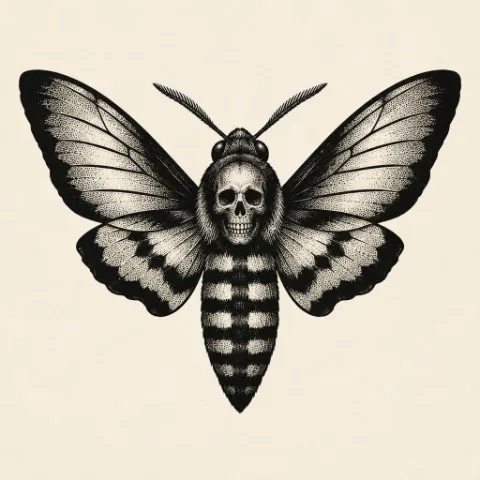
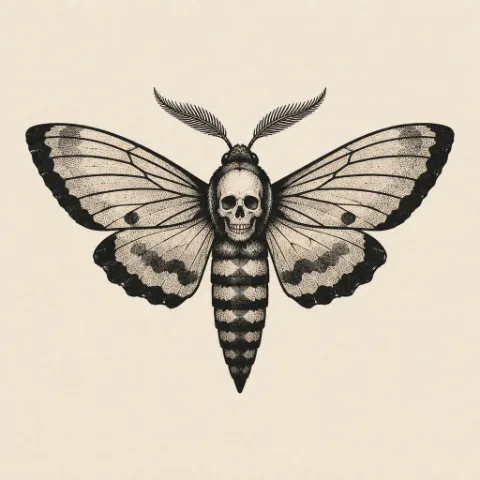
Landing: el proceso muestra la polilla de la biblioteca de Marc como elegida y en la piel (en vertical); texto: imágenes de varias tandas

Changed region(s): [[0.0312, 0.125, 0.9688, 0.875]]

diff --git a/es/index.html b/es/index.html
@@ -313,14 +313,14 @@ footer .brand img { width: 3rem; height: 3rem; }
 </div></section>
 
 <section><div class="wrap">
-  <div class="head"><p class="label">Cómo funciona</p><h2>Cinco pasos. Tú decides en cada uno.</h2><p class="real">Un encargo real, hecho con Inkdraft de punta a punta. Las imágenes salen de la app, sin retocar.</p></div>
+  <div class="head"><p class="label">Cómo funciona</p><h2>Cinco pasos. Tú decides en cada uno.</h2><p class="real">Un encargo real hecho con Inkdraft. Imágenes de la app sin retocar, elegidas de varias tandas.</p></div>
   <ol class="steps2">
     <li><span class="n">1</span><div class="st"><span class="label">Paso 1 · Encargo</span><h3>Cuéntale el encargo</h3><p>Escríbelo como te lo dice el cliente: tema, zona y tamaño. Si trae fotos de referencia, súbelas: Inkdraft las lee como gusto, nunca las copia.</p></div>
       <div class="plate"><div class="ticket"><p class="q">“polilla con calavera”</p><dl><dt>Zona</dt><dd>Antebrazo</dd><dt>Tamaño</dt><dd>15 cm</dd><dt>Estilo</dt><dd>Blackwork</dd></dl></div><small>Tal cual lo escribió el tatuador.</small></div></li>
     <li><span class="n">2</span><div class="st"><span class="label">Paso 2 · Conceptos</span><h3>Elige viendo</h3><p>Cuatro conceptos distintos, cada uno con su dibujo. Eliges con los ojos, no leyendo descripciones. ¿Ninguno te convence? Pide otra tanda.</p></div>
-      <div class="plate"><div class="g g4"><figure class="pick"><div class="pp"><img src="/img/pol-concepto-1.webp" alt="Esfinge de la calavera de frente, con la calavera en el tórax y las alas con borde negro" width="480" height="480" loading="lazy"></div><figcaption>Esfinge de la calavera</figcaption></figure><figure><div class="pp"><img src="/img/pol-concepto-2.webp" alt="La esfinge posada sobre una vela encendida que gotea" width="480" height="480" loading="lazy"></div><figcaption>Polilla y vela</figcaption></figure><figure><div class="pp"><img src="/img/pol-concepto-3.webp" alt="La esfinge sobre un eclipse negro con corona de rayos" width="480" height="480" loading="lazy"></div><figcaption>Polilla de luna eclipse</figcaption></figure><figure><div class="pp"><img src="/img/pol-concepto-4.webp" alt="La esfinge con las alas hechas de cristales de cuarzo" width="480" height="480" loading="lazy"></div><figcaption>Alas de cristal</figcaption></figure></div></div></li>
+      <div class="plate"><div class="g g4"><figure class="pick"><div class="pp"><img src="/img/pol-concepto-1.webp" alt="Polilla de alas abiertas vista desde arriba, con una calavera en el tórax" width="480" height="480" loading="lazy"></div><figcaption>Polilla con calavera</figcaption></figure><figure><div class="pp"><img src="/img/pol-concepto-2.webp" alt="La esfinge posada sobre una vela encendida que gotea" width="480" height="480" loading="lazy"></div><figcaption>Polilla y vela</figcaption></figure><figure><div class="pp"><img src="/img/pol-concepto-3.webp" alt="La esfinge sobre un eclipse negro con corona de rayos" width="480" height="480" loading="lazy"></div><figcaption>Polilla de luna eclipse</figcaption></figure><figure><div class="pp"><img src="/img/pol-concepto-4.webp" alt="La esfinge con las alas hechas de cristales de cuarzo" width="480" height="480" loading="lazy"></div><figcaption>Alas de cristal</figcaption></figure></div></div></li>
     <li><span class="n">3</span><div class="st"><span class="label">Paso 3 · Variaciones</span><h3>Afínalo</h3><p>Tres variaciones del elegido: cercana, media y atrevida. Para corregir un detalle o probar otro ángulo.</p></div>
-      <div class="plate"><div class="g g3"><figure><div class="pp"><img src="/img/pol-var-cercana.webp" alt="Variación cercana: la esfinge girada, con un ala más abierta" width="480" height="480" loading="lazy"></div><figcaption>Cercana</figcaption></figure><figure><div class="pp"><img src="/img/pol-var-media.webp" alt="Variación media: la esfinge en diagonal, con el abdomen curvado" width="480" height="480" loading="lazy"></div><figcaption>Media</figcaption></figure><figure><div class="pp"><img src="/img/pol-var-atrevida.webp" alt="Variación atrevida: la esfinge de perfil, en diagonal" width="480" height="480" loading="lazy"></div><figcaption>Atrevida</figcaption></figure></div></div></li>
+      <div class="plate"><div class="g g3"><figure><div class="pp"><img src="/img/pol-var-cercana.webp" alt="Variación cercana: la polilla algo girada, con las alas en diagonal" width="480" height="480" loading="lazy"></div><figcaption>Cercana</figcaption></figure><figure><div class="pp"><img src="/img/pol-var-media.webp" alt="Variación media: la polilla en diagonal, con alas largas y estrechas" width="480" height="480" loading="lazy"></div><figcaption>Media</figcaption></figure><figure><div class="pp"><img src="/img/pol-var-atrevida.webp" alt="Variación atrevida: la polilla en vertical, con el abdomen curvado en S" width="480" height="480" loading="lazy"></div><figcaption>Atrevida</figcaption></figure></div></div></li>
     <li><span class="n">4</span><div class="st"><span class="label">Paso 4 · Stencil</span><h3>Llévate el stencil</h3><p>Línea limpia de un solo grosor, fiel al dibujo, a 2048 px. Ábrelo en Procreate y pon el sombreado a tu manera.</p></div>
       <div class="plate"><div class="g g2"><figure><div class="pp"><img src="/img/pol-diseno.webp" alt="El diseño elegido, sombreado" width="800" height="800" loading="lazy"></div><figcaption>Diseño</figcaption></figure><figure><div class="pp"><img src="/img/pol-stencil.webp" alt="Stencil de la polilla calavera: solo contornos, un grosor" width="800" height="800" loading="lazy"></div><figcaption>Stencil</figcaption></figure></div></div></li>
     <li><span class="n">5</span><div class="st"><span class="label">Paso 5 · En la piel</span><h3>Enséñaselo al cliente</h3><p>Sube una foto de la zona, coloca el diseño con los dedos e Inkdraft lo vuelve realista. El cliente lo ve antes de la cita.</p></div>

diff --git a/index.html b/index.html
@@ -318,14 +318,14 @@ footer .brand img { width: 3rem; height: 3rem; }
 </div></section>
 
 <section><div class="wrap">
-  <div class="head"><p class="label">How it works</p><h2>Five steps. You decide at every one.</h2><p class="real">A real brief, made with Inkdraft from start to finish. Every image comes straight out of the app, untouched.</p></div>
+  <div class="head"><p class="label">How it works</p><h2>Five steps. You decide at every one.</h2><p class="real">A real brief made with Inkdraft. Untouched images from the app, picked from several batches.</p></div>
   <ol class="steps2">
     <li><span class="n">1</span><div class="st"><span class="label">Step 1 · Brief</span><h3>Describe the request</h3><p>Write it the way your client said it: subject, placement and size. If they sent reference photos, add them: Inkdraft reads them as taste and never copies them.</p></div>
       <div class="plate"><div class="ticket"><p class="q">“moth with skull”</p><dl><dt>Placement</dt><dd>Forearm</dd><dt>Size</dt><dd>15 cm</dd><dt>Style</dt><dd>Blackwork</dd></dl></div><small>Typed in a hurry, just like a real brief.</small></div></li>
     <li><span class="n">2</span><div class="st"><span class="label">Step 2 · Concepts</span><h3>Pick by eye</h3><p>Four different concepts, each one drawn. You choose by looking, not by reading descriptions. None of them right? Ask for another round.</p></div>
-      <div class="plate"><div class="g g4"><figure class="pick"><div class="pp"><img src="/img/pol-concepto-1.webp" alt="Death's-head hawkmoth seen from the front, a skull on its thorax and black-edged wings" width="480" height="480" loading="lazy"></div><figcaption>Death's-head hawkmoth</figcaption></figure><figure><div class="pp"><img src="/img/pol-concepto-2.webp" alt="The hawkmoth resting on a lit, dripping candle" width="480" height="480" loading="lazy"></div><figcaption>Moth and candle</figcaption></figure><figure><div class="pp"><img src="/img/pol-concepto-3.webp" alt="The hawkmoth over a black eclipse with a crown of rays" width="480" height="480" loading="lazy"></div><figcaption>Eclipse moth</figcaption></figure><figure><div class="pp"><img src="/img/pol-concepto-4.webp" alt="The hawkmoth with wings made of quartz crystals" width="480" height="480" loading="lazy"></div><figcaption>Crystal wings</figcaption></figure></div></div></li>
+      <div class="plate"><div class="g g4"><figure class="pick"><div class="pp"><img src="/img/pol-concepto-1.webp" alt="A moth with open wings seen from above, a skull on its thorax" width="480" height="480" loading="lazy"></div><figcaption>Moth with skull</figcaption></figure><figure><div class="pp"><img src="/img/pol-concepto-2.webp" alt="The hawkmoth resting on a lit, dripping candle" width="480" height="480" loading="lazy"></div><figcaption>Moth and candle</figcaption></figure><figure><div class="pp"><img src="/img/pol-concepto-3.webp" alt="The hawkmoth over a black eclipse with a crown of rays" width="480" height="480" loading="lazy"></div><figcaption>Eclipse moth</figcaption></figure><figure><div class="pp"><img src="/img/pol-concepto-4.webp" alt="The hawkmoth with wings made of quartz crystals" width="480" height="480" loading="lazy"></div><figcaption>Crystal wings</figcaption></figure></div></div></li>
     <li><span class="n">3</span><div class="st"><span class="label">Step 3 · Variations</span><h3>Refine it</h3><p>Three variations of the one you picked: close, medium and bold. To fix a detail or try another angle.</p></div>
-      <div class="plate"><div class="g g3"><figure><div class="pp"><img src="/img/pol-var-cercana.webp" alt="Close variation: the hawkmoth turned, one wing more open" width="480" height="480" loading="lazy"></div><figcaption>Close</figcaption></figure><figure><div class="pp"><img src="/img/pol-var-media.webp" alt="Medium variation: the hawkmoth on a diagonal, its abdomen curved" width="480" height="480" loading="lazy"></div><figcaption>Medium</figcaption></figure><figure><div class="pp"><img src="/img/pol-var-atrevida.webp" alt="Bold variation: the hawkmoth in profile, on a diagonal" width="480" height="480" loading="lazy"></div><figcaption>Bold</figcaption></figure></div></div></li>
+      <div class="plate"><div class="g g3"><figure><div class="pp"><img src="/img/pol-var-cercana.webp" alt="Close variation: the moth slightly turned, wings on a diagonal" width="480" height="480" loading="lazy"></div><figcaption>Close</figcaption></figure><figure><div class="pp"><img src="/img/pol-var-media.webp" alt="Medium variation: the moth on a diagonal, with long narrow wings" width="480" height="480" loading="lazy"></div><figcaption>Medium</figcaption></figure><figure><div class="pp"><img src="/img/pol-var-atrevida.webp" alt="Bold variation: the moth upright, its abdomen curved in an S" width="480" height="480" loading="lazy"></div><figcaption>Bold</figcaption></figure></div></div></li>
     <li><span class="n">4</span><div class="st"><span class="label">Step 4 · Stencil</span><h3>Take the stencil</h3><p>Clean, single-weight linework, true to the drawing, at 2048 px. Open it in Procreate and add the shading your way.</p></div>
       <div class="plate"><div class="g g2"><figure><div class="pp"><img src="/img/pol-diseno.webp" alt="The chosen design, shaded" width="800" height="800" loading="lazy"></div><figcaption>Design</figcaption></figure><figure><div class="pp"><img src="/img/pol-stencil.webp" alt="Stencil of the skull moth: outlines only, one line weight" width="800" height="800" loading="lazy"></div><figcaption>Stencil</figcaption></figure></div></div></li>
     <li><span class="n">5</span><div class="st"><span class="label">Step 5 · On skin</span><h3>Show your client</h3><p>Upload a photo of the placement, position the design with your fingers and Inkdraft makes it look real. Your client sees it before the appointment.</p></div>

diff --git a/CLAUDE.md b/CLAUDE.md
@@ -47,5 +47,5 @@ Una sola dirección pública: `hello@inkdraft.tattoo`. Los dos emails del formul
 - Imágenes generadas en producción con la cuenta de Marc (`/api/concepts`, `/api/references`, `/api/stencil`), sin retocar, pasadas a webp de 800 px. De reserva quedaron cabeza de tigre (Tradicional; su stencil perdía las rayas) y búho con joya (Neotradicional).
 - El formulario de fundador sigue con Blackwork / Fineline / Otro (ver arriba para añadir estilos).
 - Ejemplos elegidos por Marc de su biblioteca (23 oct): Blackwork `bw-1` polilla con calavera (antebrazo 15 cm) y `bw-2` corazón anatómico con bisturí (brazo 18 cm); Tradicional `trad-2` barco en medallón con ancla (brazo 15 cm). Stencils hechos con `/api/stencil`. `cri-*` borradas; las `esc-*` siguen en "Cómo funciona".
-- Cómo funciona y el problema (mensaje con Laura) cuentan un encargo hecho de punta a punta en la app (Marc, 23 oct): "polilla con calavera", antebrazo 15 cm, Blackwork, con la polilla favorita de Marc de su biblioteca como referencia del cliente (la versión anterior salía con alas "a cebra" y no le gustaba). 3 tandas; en la web, la segunda entera (`pol-concepto-1..4`), elegido el 1 ("Esfinge de la calavera", fina, simétrica). Variaciones `pol-var-*` sin ninguna marcada: todas giraban la polilla en diagonal y Marc la quiere vertical en el brazo, así que el paso 4 y la piel usan el concepto (`pol-diseno.webp` + `pol-stencil.webp`). `pol-piel.webp`: el concepto en vertical, grande, sobre el antebrazo limpio original (Figma "Inkdraft · landing (antebrazo IA)", nodo 1:2) y pasado por `/api/skin`. Laura: v1-v3 son los conceptos 2, 3 y 4; pide la v2 (eclipse) sin el sol y recibe el 1. Para la landing, siempre varias tandas y elegir. Material en `~/Claude/inkdraft-banco-estilos/landing-2026-10-23/proceso-polilla-con-referencia/` (antebrazo limpio en `.../proceso-polilla/antebrazo.bin`, PNG).
+- Cómo funciona y el problema (mensaje con Laura): encargo "polilla con calavera", antebrazo 15 cm, Blackwork, montado con imágenes reales de la app de varias tandas del mismo encargo (Marc, 23 oct: ninguna polilla nueva estaba a la altura de la de su biblioteca). Elegida = la polilla de la biblioteca de Marc (`pol-concepto-1`, también `bw-1`); conceptos 2-4 de una tanda con esa polilla como referencia (vela, eclipse, alas de cristal); variaciones `pol-var-*` hechas de la de Marc (ninguna marcada: Marc la quiere vertical en el brazo); paso 4 con la original y su stencil; `pol-piel.webp`: la original en vertical sobre el antebrazo limpio (Figma "Inkdraft · landing (antebrazo IA)", nodo 1:2) pasada por `/api/skin`. Por eso el texto dice "imágenes de la app sin retocar, elegidas de varias tandas" y no "de punta a punta". Laura: v1-v3 = conceptos 2, 3, 4; pide la v2 (eclipse) sin el sol y recibe el 1. Material en `~/Claude/inkdraft-banco-estilos/landing-2026-10-23/`.
 - Textos de cada estilo acortados a dos líneas (Marc, 23 oct), empezando por el término de búsqueda ("Tatuaje blackwork:", "Tatuaje tradicional moderno:"…).
